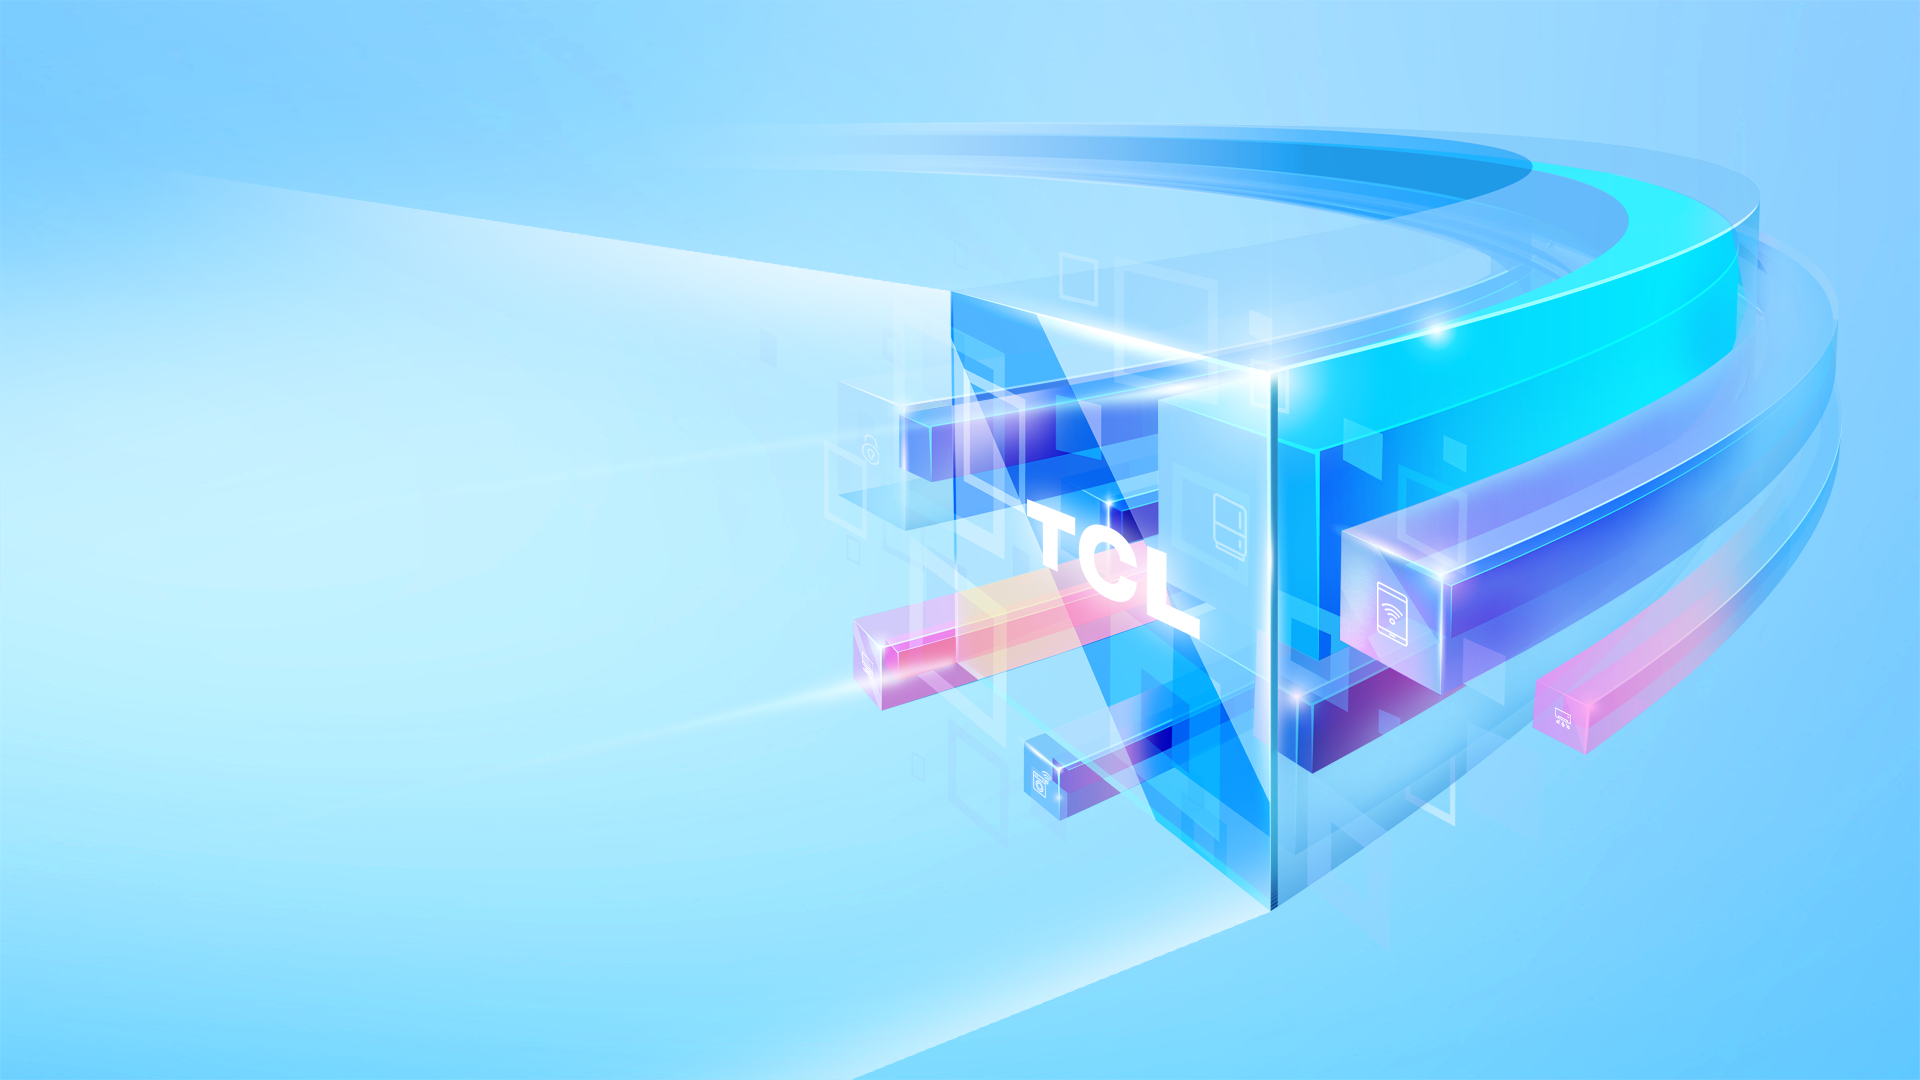
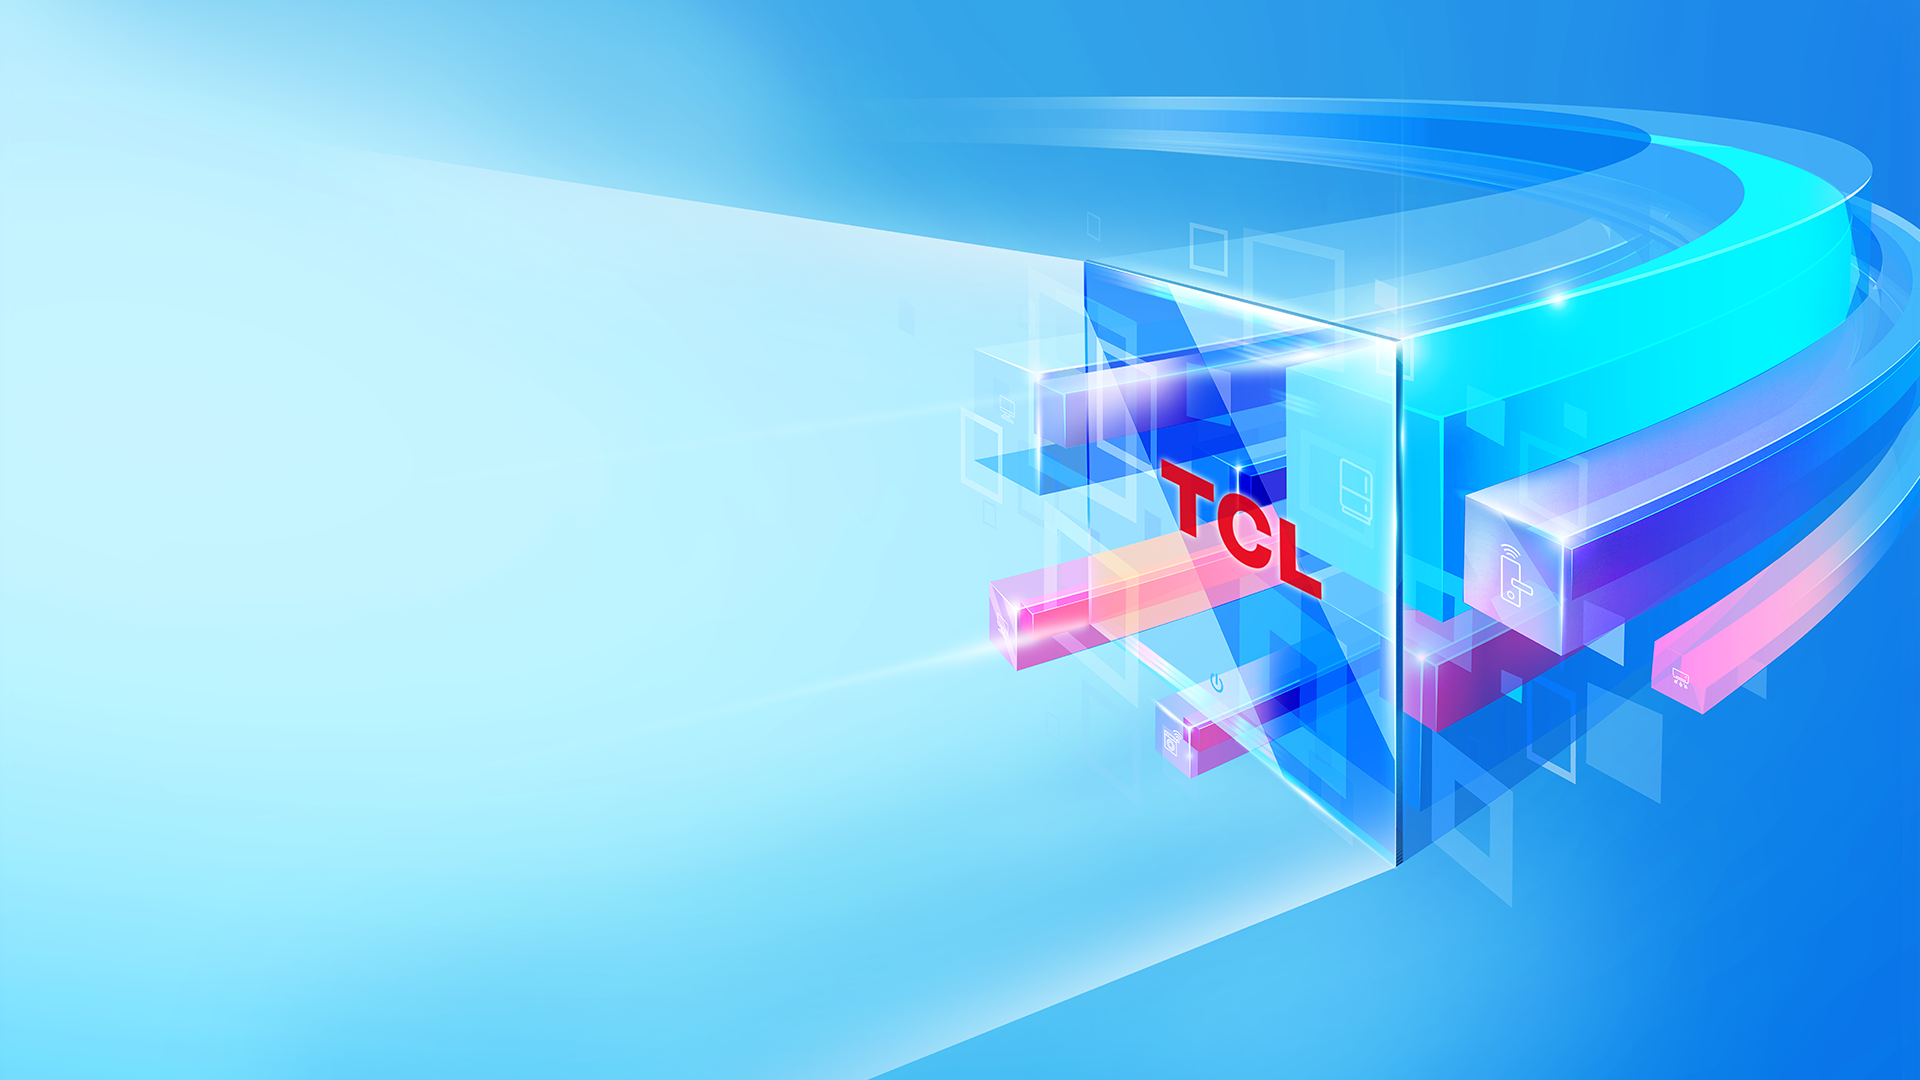
注册UI改动

diff --git a/src/views/login/index.vue b/src/views/login/index.vue
@@ -11,7 +11,7 @@
     <!-- 登录 -->
     <div v-if="isLogin && deviceType === 1" class="login_content">
       <div class="login_txt">
-        <img :src="logo2" alt="">
+        <img :src="logo3" alt="">
       </div>
       <p class="login_tips">欢迎登录</p>
       <div class="form_item">
@@ -43,7 +43,7 @@
     <!-- 注册 -->
     <div v-else class="registry_content">
       <div class="registry_txt">
-        <img :src="logo2" alt="">
+        <img :src="logo3" alt="">
       </div>
       <!-- 返回登录 -->
       <p class="back_login" v-if="deviceType === 1" @click="isLogin = true">返回登录</p>
@@ -208,6 +208,7 @@
 import { mapActions } from 'vuex'
 import bg from '@/assets/images/newPicture/login.png'
 import logo2 from '@/assets/images/newPicture/logo.png'
+import logo3 from '@/assets/images/newPicture/logo2.png'
 export default {
   data () {
     return {
@@ -216,6 +217,7 @@ export default {
       prizeBack: require('../../assets/images/cover2.png'),
       bg,
       logo2,
+      logo3,
       showCount: false,
       count: 0,
       timer: null,
@@ -482,7 +484,7 @@ export default {
         margin-left: 32px;
         font-size: 20px;
         font-weight: bold;
-        color: #FFFBFB;
+        color: #e60012;
       }
     }
     .reload {
@@ -575,6 +577,7 @@ export default {
 
       background-color: #fff;
       border-radius: 8px;
+      margin-left: -50%;
       .registry_txt {
         display: flex;
         align-items: center;
@@ -691,6 +694,7 @@ export default {
       height: 100%;
       box-shadow: unset;
       border-radius: 0;
+      margin-left: 0;
     }
     .login_container {
       .left_logo {
